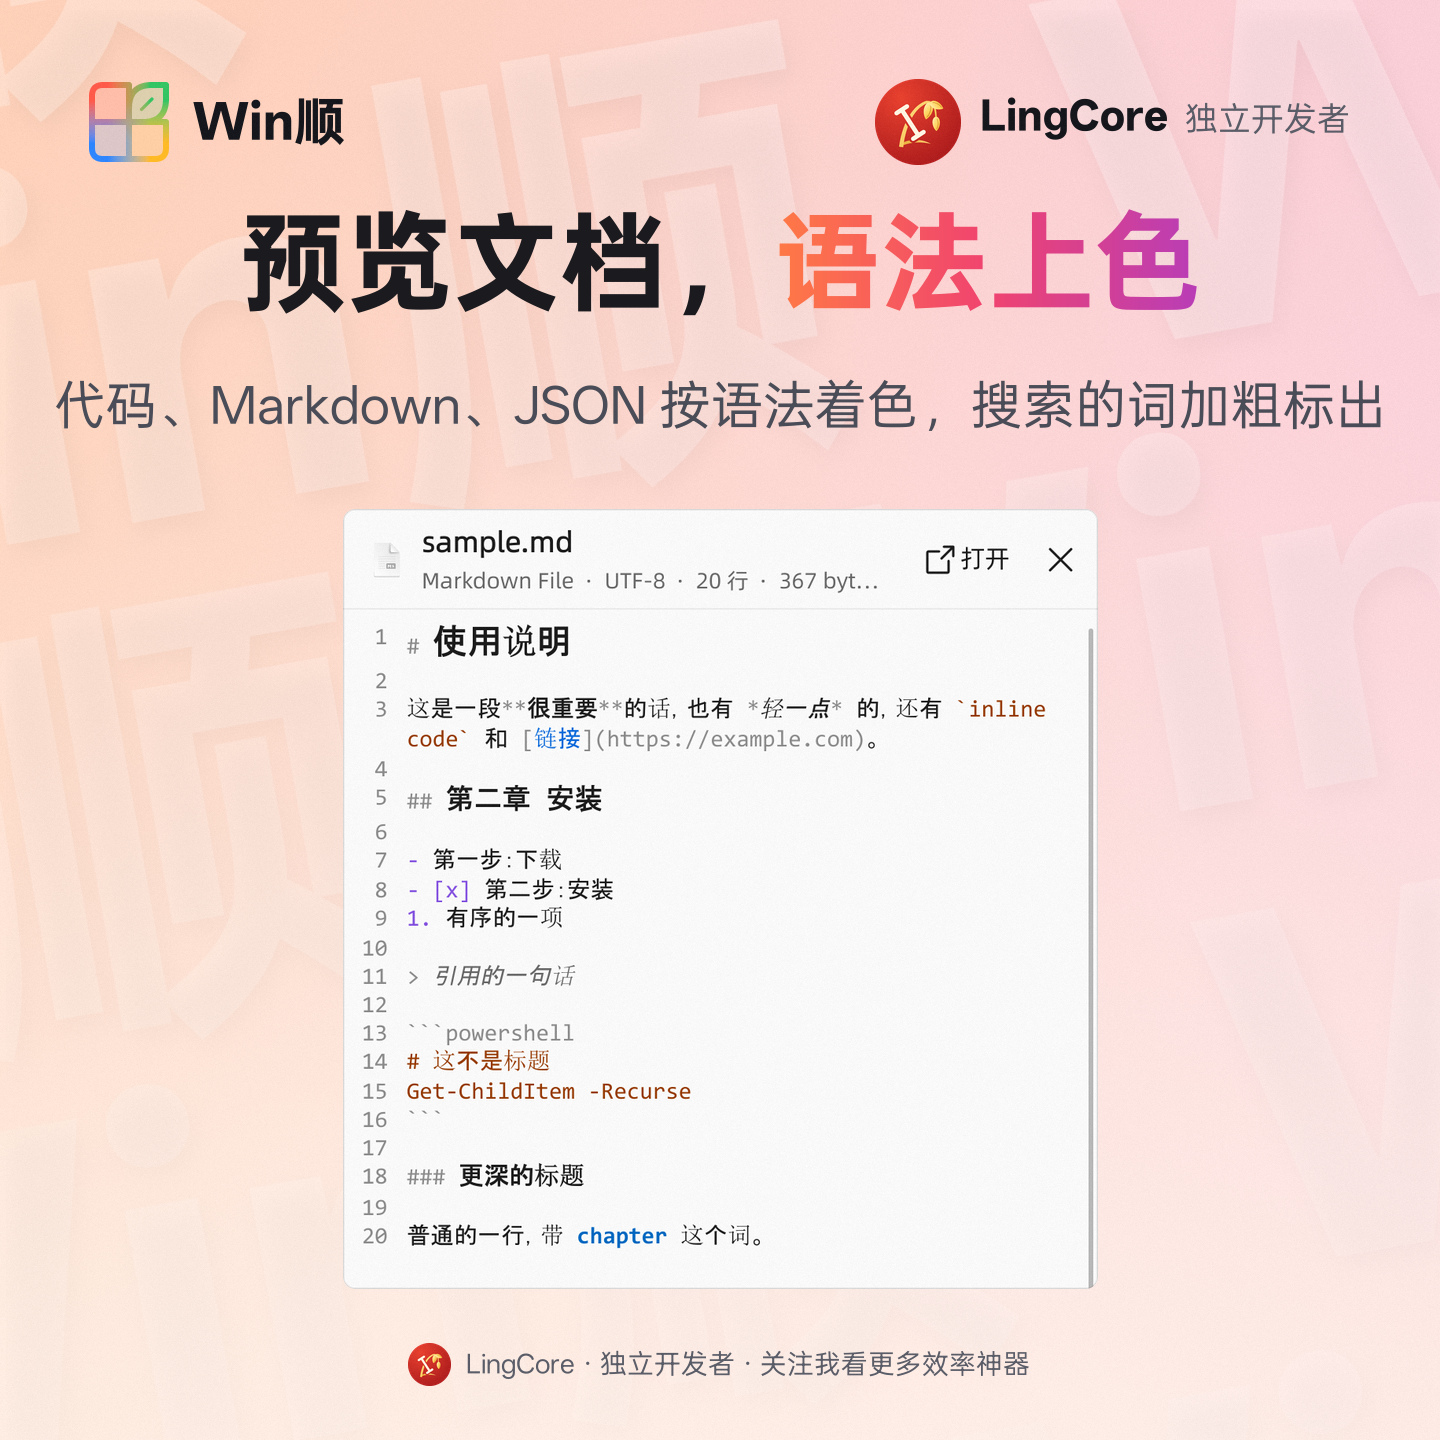
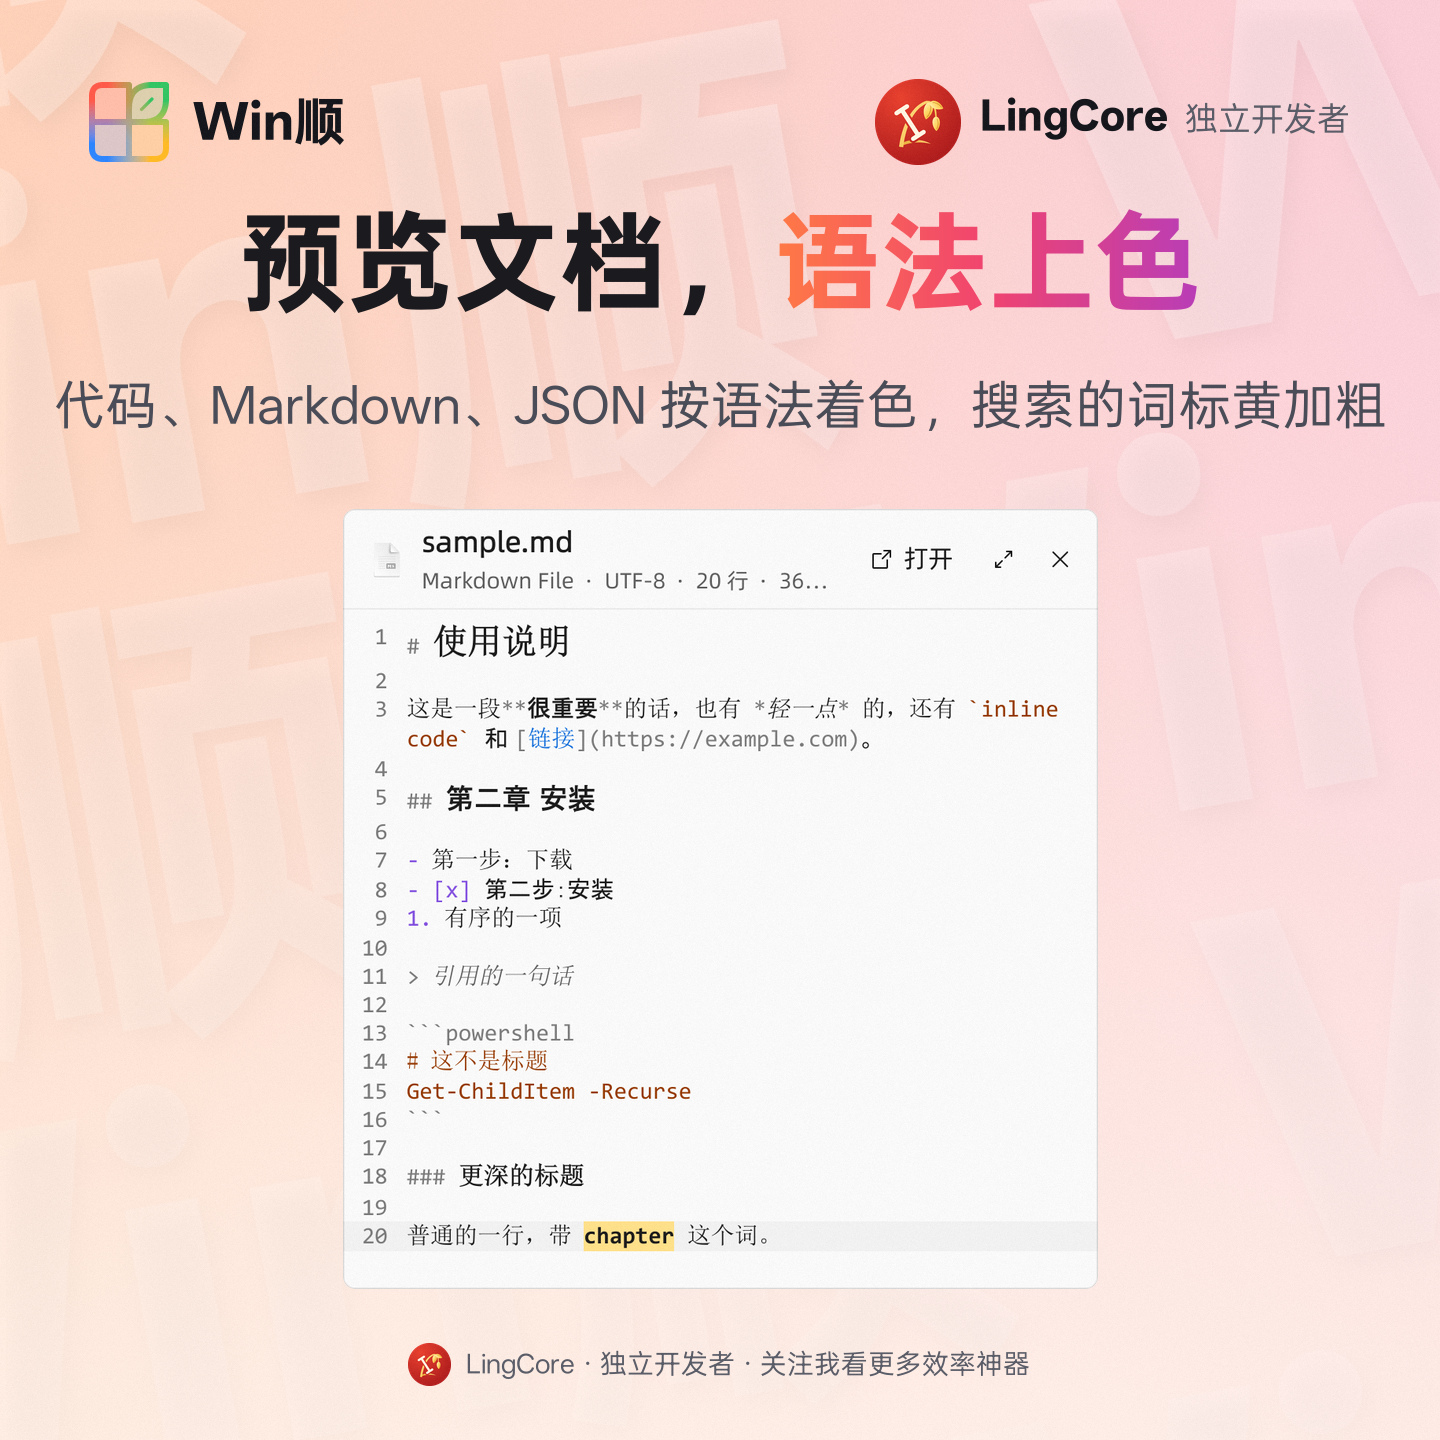
Docs: 0.51.0 release notes, README, user guide and the preview poster
The notes name what came in since 0.50.0: clipboard opened pinned, a
terminal opened in the folder typed in (#430), a fill under searched
words in the preview (#482), order chips for large icons (#483), Test
connection on the cards of translation, search by meaning and cloud
backup (#495), and the fixes for #499 #489 #485 #476 #492 #493 #484
#490 #497 #487 and the chat feedback. The user guide and features.en
describe each with its version. preview-colors.jpg is re-shot with the
fill and the first match's line band (release051.py; its gallery run
places windows on the screen, as its docstring says).

diff --git a/tools/screenshots/release051.py b/tools/screenshots/release051.py
@@ -1,0 +1,108 @@
+"""Capture the 0.51.0 file preview and export the poster it changes.
+
+Changed: the words searched for in the file preview have a marker's fill under
+them (GitHub #482) as well as the bold, and the first match's whole line a band
+(Theme.hover) across the card; docs/images/preview-colors.jpg is shot again
+with both. The shot is the real preview window (PreviewBody.qml over the real
+FilePreview) showing sample.md with "chapter" searched for: the picture
+preview-markdown.png that the gallery run of --preview-results saves (the
+Markdown fixture in src/app/Preview.cpp), the run the poster came from in
+0.26.0. Its fixtures are in a temporary folder and a temporary history, and
+Preview.cpp makes no system clipboard call (the #116 file copy goes to a stub).
+
+THIS RUN IS NOT OFF THE SCREEN THROUGHOUT. The gallery run holds many other
+checks, and two of them touch the desktop: the preview-placement check puts the
+launcher and preview fixture windows inside the work area (not activated), and
+the clipboard window's sizing check makes its window topmost, moves the real
+cursor (put back) and, when nothing lies over the window's corner, sends a real
+mouse drag with SendInput. Run it only while nobody uses the PC. Both checks
+can also fail here (exit 4) without touching the picture: "room beside" needs a
+work area wider than about 2960 physical pixels at --scale 2, and the corner may
+be covered by another window (here a WinShun tool window). This script accepts only those, by
+name, and still requires the colours' own checks (a fill under the words, the
+band on the first match's line) to have passed. A run that only draws the
+colours would need a flag in src/app/Preview.cpp.
+
+Taken from the release build's WinShun.exe, --scale 2 --renderer d3d11 and
+QT_FONT_DPI=96, into a fresh --work directory. Qt's bin folder must
+be on PATH when WinShun.exe runs from a build folder.
+
+  gallery  WinShun.exe --preview-results <work>/gallery --file-metadata --gallery-image tools/screenshots/scenes/区域销售额.png --scale 2 --renderer d3d11
+
+  python -I tools/screenshots/release051.py --exe build/release/WinShun.exe --work build/poster051/work --capture-only
+  # look at <work>/gallery/preview-markdown.png (the fill under "chapter", a band across its line), then
+  python -I tools/screenshots/release051.py --work build/poster051/work --export-only
+"""
+import argparse
+from pathlib import Path
+import re
+import sys
+
+sys.dont_write_bytecode = True
+# python -I leaves the script's own folder off sys.path.
+sys.path.insert(0, str(Path(__file__).resolve().parent))
+
+import poster_pipeline
+
+HERE = Path(__file__).resolve().parent
+
+RUNS = (
+    ("gallery", "--preview-results",
+     ["--file-metadata", "--gallery-image", str(HERE / "scenes" / "区域销售额.png")]),
+)
+
+# What the gallery run logs besides the picture's own checks (see the docstring).
+KNOWN_WARNINGS = (
+    poster_pipeline.KNOWN_FRAME_WARNING,
+    # the stalled-file fixture says so on purpose
+    "a file has kept the preview's reading thread at: starting",
+    "the preview has waited 5 s for a .md file",
+    # screen-dependent
+    "preview placement regression: room beside: the preview covered the launcher",
+    "clipboard sizing: corner_is_the_windows_own",
+    "clipboard sizing: real_mouse_corner_drag",
+    "clipboard regression: clipboard sizing regression",
+)
+
+SOURCES = {
+    "preview-colors": ("L-preview-colors", "gallery/preview-markdown.png", None),
+}
+
+# The subtitle was "代码、Markdown、JSON 按语法着色，搜索的词加粗标出" until 0.50.0.
+POSTERS = (
+    ("preview-colors", "L-preview-colors", "预览文档，[语法上色]", "代码、Markdown、JSON 按语法着色，搜索的词标黄加粗"),
+)
+
+
+def verify_colours(work: Path) -> None:
+    """The colours' own checks (a fill under the words, the band on the first match's line) passed."""
+    log = (work / "gallery" / "preview.log").read_text(encoding="utf-8")
+    marks = re.search(r"preview marks: (\d+) px of fill in the code, (\d+) in the JSON", log)
+    if not marks or min(int(count) for count in marks.groups()) <= 200 or "preview colours:" not in log:
+        raise SystemExit("the preview's colour checks did not pass: see gallery/preview.log")
+    if not (work / "gallery" / "preview-markdown.png").is_file():
+        raise SystemExit("gallery/preview-markdown.png was not saved")
+    print(f"Fill under the searched words: {marks.group(1)} px in the code, {marks.group(2)} px in the JSON", flush=True)
+
+
+def main():
+    parser = argparse.ArgumentParser(description=__doc__, formatter_class=argparse.RawDescriptionHelpFormatter)
+    parser.add_argument("--exe", type=Path)
+    parser.add_argument("--work", type=Path, required=True)
+    modes = parser.add_mutually_exclusive_group(required=True)
+    modes.add_argument("--capture-only", action="store_true")
+    modes.add_argument("--export-only", action="store_true")
+    args = parser.parse_args()
+    if args.capture_only:
+        if not args.exe:
+            parser.error("--capture-only needs --exe")
+        if args.work.resolve().exists():
+            parser.error("--work must be a fresh directory")
+        poster_pipeline.capture_previews(args.exe, args.work, RUNS, known_warnings=KNOWN_WARNINGS, accepted_codes=(2, 4))
+        verify_colours(args.work.resolve())
+        return
+    poster_pipeline.export_posters(args.work, SOURCES, POSTERS)
+
+
+if __name__ == "__main__":
+    main()

diff --git a/tools/screenshots/poster_pipeline.py b/tools/screenshots/poster_pipeline.py
@@ -29,9 +29,13 @@ def capture_previews(
     only=None,
     scale: str = "2",
     known_warnings=(KNOWN_FRAME_WARNING,),
+    accepted_codes=(2,),
     timeout: int = 600,
 ) -> None:
-    """Run isolated WinShun preview/probe commands into a fresh work directory."""
+    """Run isolated WinShun preview/probe commands into a fresh work directory.
+
+    A non-zero exit passes only with a code in accepted_codes (2 = warnings; add 4 for a run whose
+    other checks fail on this screen) and every WARNING line in preview.log among known_warnings."""
     exe = exe.resolve(strict=True)
     work = work.resolve()
     if work.exists():
@@ -62,7 +66,7 @@ def capture_previews(
                 lines = log_path.read_text(encoding="utf-8").splitlines() if log_path.is_file() else []
                 warnings = [line for line in lines if line.startswith("WARNING:")]
                 if (
-                    result.returncode != 2
+                    result.returncode not in accepted_codes
                     or not warnings
                     or any(not any(k in line for k in known_warnings) for line in warnings)
                 ):

diff --git a/docs/release-notes/v0.51.0.md b/docs/release-notes/v0.51.0.md
@@ -1,0 +1,60 @@
+Win顺 0.51.0：剪贴板可以设成打开时就钉住，连着粘贴好几条不用每次按 `Ctrl+T`；在文件夹里打 `cmd`、`wt` 这类终端，按 `Enter` 就开在这个文件夹里（#430）；预览里搜的词垫上底色，第一处所在的行整行衬出（#482）；面板的大图模式底栏可以排序（#483）；翻译、按意思找、云备份的插件卡片上有“测试连接”按钮（#495）；另有截图打码、演示黑板等一批修复。
+
+## 下载 · Downloads
+
+- **WinShun-0.51.0-x64-setup.exe** 为标准安装版，覆盖升级保留设置、索引和剪贴板，带截图与录屏组件，增强 OCR 按需下载。
+- **WinShun-0.51.0-x64-portable.zip** 为便携版。解压运行 `WinShun.exe`，升级时保留原来的 `data` 文件夹。
+- **WinShun-0.51.0-x64-offline-setup.exe** 另外包含增强 OCR。其他官方可选插件从插件库安装。
+- **WinShun-ocr-ppocr-v6-ort1.30.0-x64.zip** 是同版本安装程序使用的增强 OCR 组件。
+- **SHA256SUMS.txt** 提供全部附件的 SHA256。
+- 国内下载慢的话，[CNB 镜像](https://cnb.cool/lcstp/WinShun/-/releases)上有同样的文件。
+
+The standard installer keeps settings, the index and clipboard history during an upgrade, carries the screenshot and recording component, and downloads enhanced OCR when needed. For the portable edition, keep the existing `data` folder. The offline installer also includes enhanced OCR; the other optional official plugins are in the plugin library. Scoop users can run `scoop update winshun` after the bucket update reaches them; with WinGet, `winget upgrade LingCore.WinShun` once the package has caught up. From mainland China, the [CNB mirror](https://cnb.cool/lcstp/WinShun/-/releases) has the same files.
+
+升级不用迁移任何东西，设置、收藏、贴图和剪贴板历史都保留。截图与录屏 1.1.41 一起更新（随安装包带着）。插件库里翻译 2.4.0、按意思找 1.2.0、云备份 1.1.0 加了“测试连接”，鼠标手势 2.2.1、开发工具 1.0.11、图片文字搜索 1.0.36 随新版的共用代码重新构建，插件库会自动更新它们。从 0.36.0 起的版本软件内更新只下载变了的部分。便携版更新下载的文件从这一版起放在 `data\Updates`，以前放在 `%LOCALAPPDATA%\WinShun\Updates` 的会自动清掉（#484）。
+
+Nothing needs migrating: settings, favorites, pins and clipboard history are kept. Screenshot and recording 1.1.41 comes along (it ships with the installer). In the plugin library, Translate 2.4.0, Search by meaning 1.2.0 and Cloud backup 1.1.0 add Test connection, and Mouse gestures 2.2.1, Developer tools 1.0.11 and Image text search 1.0.36 are rebuilt with this version's shared code; the plugin library updates them by itself. Updating in the app from 0.36.0 or later downloads only what changed. From this version the portable edition keeps its update downloads in `data\Updates`; what earlier versions left in `%LOCALAPPDATA%\WinShun\Updates` is removed (#484).
+
+## 新功能 · What's new
+
+- 📌 **剪贴板打开时就钉住**：要连着粘贴好几条时，到 **设置 › 剪贴板 › 记录 › 粘贴动作与列表显示** 打开“打开时钉住”，剪贴板一打开就是钉住的，粘贴后不收起；按 `Esc` 关掉，`Ctrl+T` 临时取消。默认关着。
+
+  **Clipboard opens pinned**: to paste several entries one after another, turn on 打开时钉住 under **Settings › Clipboard › Record › Paste actions and list display**; the clipboard then opens pinned and stays after pasting. `Esc` closes it, `Ctrl+T` unpins it for the moment. Off by default.
+
+- 💻 **终端开在这个文件夹里**（#430）：在文件夹窗口或资源管理器里打字搜索时，打 `cmd`、`powershell`、`pwsh`、`wt`、`git bash` 或 `wsl`，在找到的终端上按 `Enter`，它就开在当前这个文件夹里，和在资源管理器地址栏里输入 `cmd` 一样；`Ctrl+Shift+Enter` 以管理员身份。其他程序照常打开。
+
+  **A terminal opens in this folder** (#430): typing in a folder, Enter on `cmd`, `powershell`, `pwsh`, `wt`, `git bash` or `wsl` opens that terminal in the folder, as typing `cmd` in Explorer's address bar does; `Ctrl+Shift+Enter` as administrator. Other programs open as before.
+
+- 🔍 **预览里一眼看到搜的词**（#482）：文本和代码文件的预览里，搜的词垫上一层底色并加粗，第一处所在的那一行整行衬出来并滚到眼前。以前只换颜色，夹在上了色的代码里不显眼。结果列表照旧只给字上色。
+
+  **Searched words stand out in the preview** (#482): in a text or code file's preview the words searched for get a fill under them and bold type, and the first one's line a band across, scrolled into view. They used to change colour only, lost among the code's own colours. Result lists stay as they were.
+
+- 🖼 **大图模式可以排序**（#483）：面板切到“大图”时没有列头，排序放到了底栏左边：**最匹配**、**最新**、**最早**，“更多”里还有名称、所在文件夹、类型、大小，现在按哪种排一眼能看到；`Ctrl+S` 照常轮换。
+
+  **Order chips for large icons** (#483): the panel's thumbnail grid has no column headers, so the footer now carries the order: best match, newest, oldest, and under More name, folder, type and size, the one in use shown; `Ctrl+S` still cycles them.
+
+- 🔌 **插件卡片上的“测试连接”**（#495）：翻译、按意思找、云备份填好服务和密钥后，卡片上点“测试连接”，连上了写“连接正常”和用时，连不上直接写明原因（密钥不对、模型没下载、本机模型服务没启动、地址或密码不对等）。翻译只发一个单词 hello，按意思找发一小段文字，云备份只读备份列表、不上传（翻译 2.4.0、按意思找 1.2.0、云备份 1.1.0）。
+
+  **Test connection on plugin cards** (#495): once a service and key are set, Translate, Search by meaning and Cloud backup have a Test connection button on their cards; it says 连接正常 and how long it took, or why it failed (a wrong key, a model not downloaded, the local model server not running, a wrong address or password). Translate sends the single word hello, Search by meaning one short text, and Cloud backup only lists the backups, uploading nothing (Translate 2.4.0, Search by meaning 1.2.0, Cloud backup 1.1.0).
+
+## 改进与修复 · Improvements and fixes
+
+- **搜索**：模糊匹配开着时，打 `tim` 排在前面的是 TIM，不再是天天打开的 System Informer：模糊猜到的程序只有为这几个字选过它才往前排，光是常用不算。面板在“内容”范围下也写一共找到多少个文件，还在找时写“已找到 N 个文件，还在找…”（#476）。预览开着时把搜索框清空、什么都没列出，预览窗口跟着关掉（#492）。
+
+  **Search**: with fuzzy matching on, `tim` puts TIM first, not System Informer opened every day: a fuzzy guess moves up only for having been chosen for this text, not for being used a lot. The panel counts the files of a content search too, 已找到 N 个文件，还在找… while it runs (#476). With the preview open, emptying the box so nothing is listed closes the preview (#492).
+
+- **截图**：打码时点一行字，手稍微滑了几个像素也算点中，不再画出一个小框把后面的点击挡住；选了别的样式再点已经盖住的一行，会换成新样式，同样的样式再点才取消（#499）。`Shift+C` 识别文字并复制后，选区旁出现小卡片，显示复制了什么，点“编辑”可以改了再用（#489）。演示时从桌面直接打开黑板是黑色的，不再是白色（#485）。公式识别窗口的关闭按钮又有图标了（截图与录屏 1.1.41）。
+
+  **Captures**: a click on a line of text to hide it still counts when the hand slipped a few pixels, instead of drawing a tiny box that caught the next clicks; a hidden line clicked with another style takes that style, and only the same style unhides it (#499). After `Shift+C` copies the text read, a small card beside the selection shows what was copied, with 编辑 to change it (#489). The black board opened straight from the desktop while presenting is black, not white (#485). The formula window's close button has its icon again (Screenshot and recording 1.1.41).
+
+- **便携版和文件管理器**：便携版的 Total Commander、XYplorer、Pulse 运行过一次后 Win顺 记住它在哪，之后它关着也能用它打开文件夹。便携版更新下载的包和更新日志放在 `data\Updates`，不再写到系统盘（#484）。
+
+  **Portable copies**: a portable Total Commander, XYplorer or Pulse is remembered after it has run once, so folders open in it while it is closed. The portable edition keeps its update downloads and log in `data\Updates`, off the system drive (#484).
+
+- **设置**：插件页的两个筛选框右边有清空的 ×，旁边写“N 个插件，筛选后显示 M 个”：从别处点链接跳到插件库，筛选框里留着的名字不会再让人以为只有一个插件。关掉“文件夹菜单”时，它下面的几行跟着收起（#493）。
+
+  **Settings**: both filter boxes on the plugin pages have an × to empty them, and the line beside says how many plugins there are and how many the filter shows, so a name left there by a link no longer looks like a library of one. Turning the folder menu off folds its rows away (#493).
+
+- **稳定性和诊断**：有人在睡眠唤醒后闲着时崩溃，记录指向 Qt 分步回收界面内存的那段代码；Win顺 和带界面的插件改成一次回收，避开这一处（#490，这边没能复现，先这样观察）。剪贴板里 32 位的图片存成文件时，第四个字节写成不透明，有的程序打开时不会再是一片空白（#497）。检查更新时服务器的回答记进诊断日志，方便查“为什么没提示更新”（#487）。
+
+  **Stability and diagnostics**: a crash while idle after sleep pointed at Qt's garbage collection done in steps between events; WinShun and its plugins with windows now collect all at once, avoiding that code (#490; not reproduced here, being watched). A 32-bit clipboard picture saved to a file has its fourth byte written opaque, so some programs no longer open it blank (#497). What the update service answered goes into the diagnostics log, to tell why no update was offered (#487).

diff --git a/README.md b/README.md
@@ -202,6 +202,14 @@ winget install LingCore.WinShun
 
 ### 最近更新
 
+**0.51.0**
+
+- 📌 剪贴板可以设成**打开时就钉住**，连着粘贴好几条；💻 在文件夹里打 `cmd`、`wt` 这类终端，按 `Enter` 就**开在这个文件夹里**（#430）。
+- 🔍 **预览里搜的词垫上底色**，第一处所在的行整行衬出（#482）；🖼 面板**大图模式可以排序**（#483）；🔌 翻译、按意思找、云备份的卡片上有**“测试连接”**（#495）。
+- 🛠 **改进** 模糊匹配打 `tim` 先出 TIM；截图打码点一行字更准（#499）；演示时黑板不再变白（#485）；便携版的 Total Commander 关着也能用。
+
+详见 [0.51.0 发布说明](docs/release-notes/v0.51.0.md)。
+
 **0.50.0**
 
 - 🧮 截图**公式识别**：框住公式按 `Shift+F`，转成 LaTeX，复制成 Word 公式、Markdown 或 Typst，模型在本机运行；⌨ 鼠标手势可以**按住 Ctrl、Alt、Shift 画**出另外的手势（#472）。
@@ -614,6 +622,14 @@ Standard and portable packages install enhanced text recognition on demand. Open
 </details>
 
 ### What's new
+
+**0.51.0**
+
+- 📌 The clipboard can **open pinned**, for pasting several entries in a row; 💻 typing `cmd`, `wt` and the like in a folder, `Enter` **opens the terminal in that folder** (#430).
+- 🔍 **Searched words get a fill in the preview**, the first one's line a band (#482); 🖼 the panel's **large icons can be ordered** (#483); 🔌 Translate, Search by meaning and Cloud backup have **Test connection** on their cards (#495).
+- 🛠 **Improved** `tim` with fuzzy matching finds TIM first; a click to hide a line of text in a capture is surer (#499); the presenter's black board stays black (#485); a portable Total Commander works while closed.
+
+See the [0.51.0 release notes](docs/release-notes/v0.51.0.md).
 
 **0.50.0**
 
